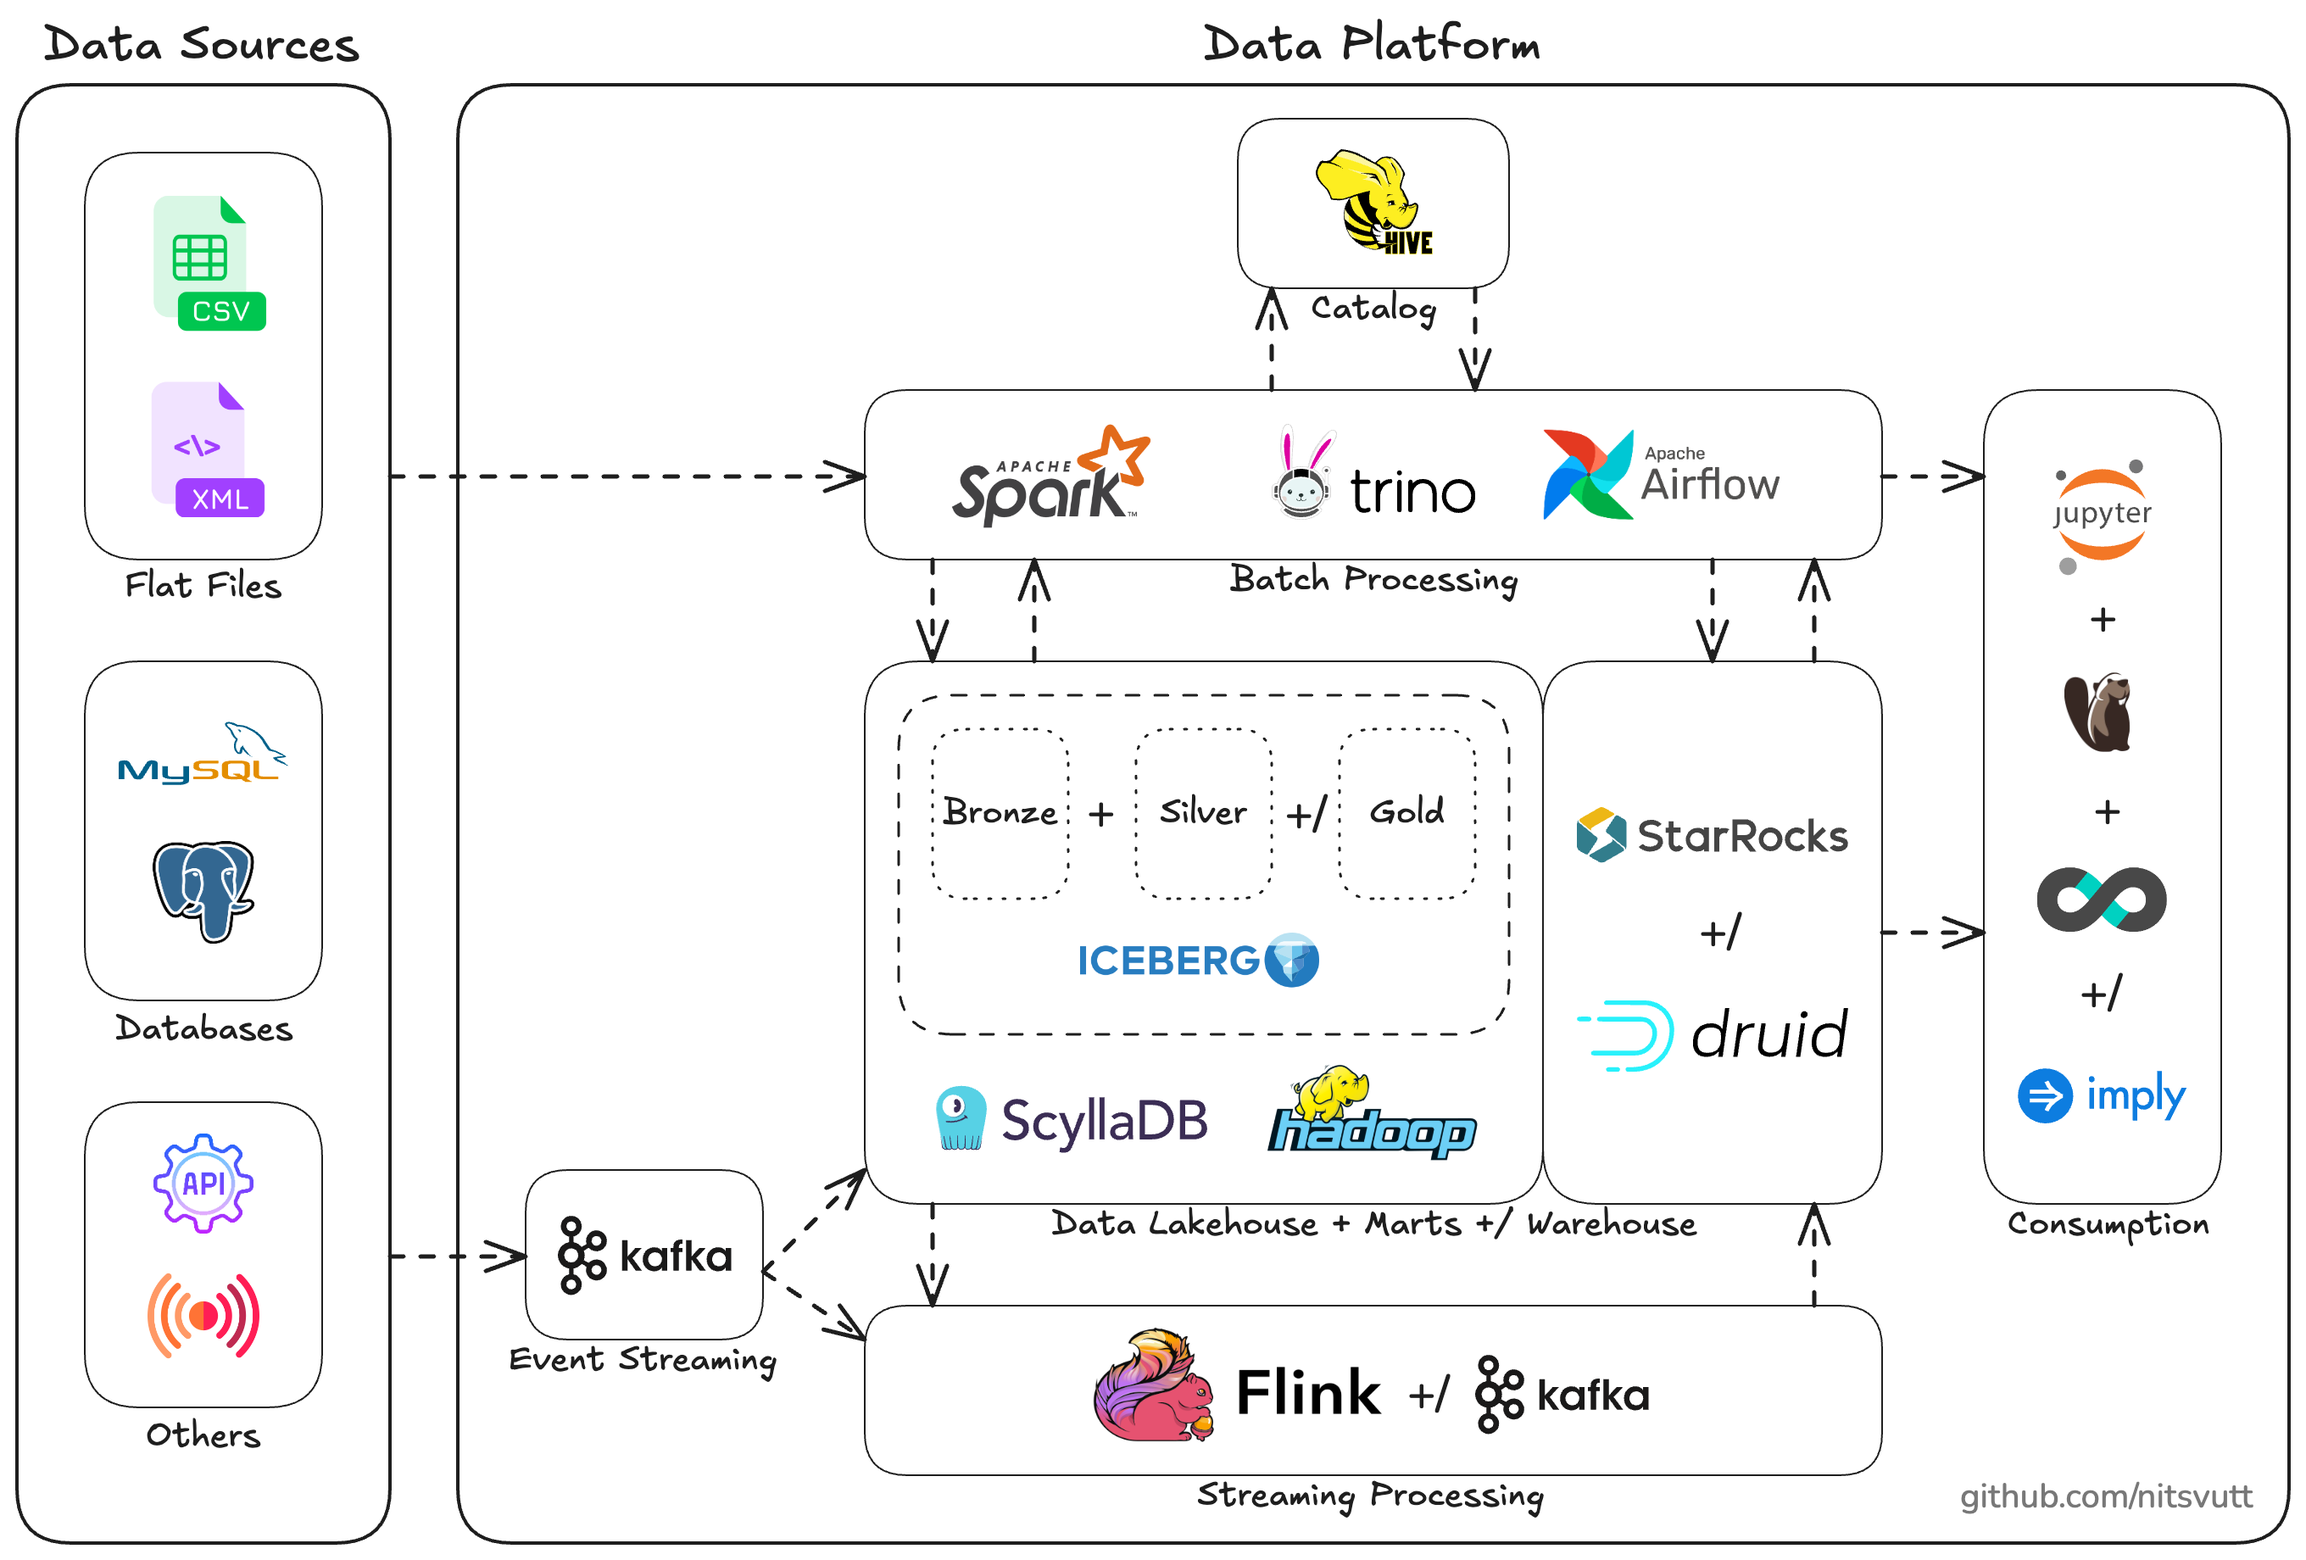
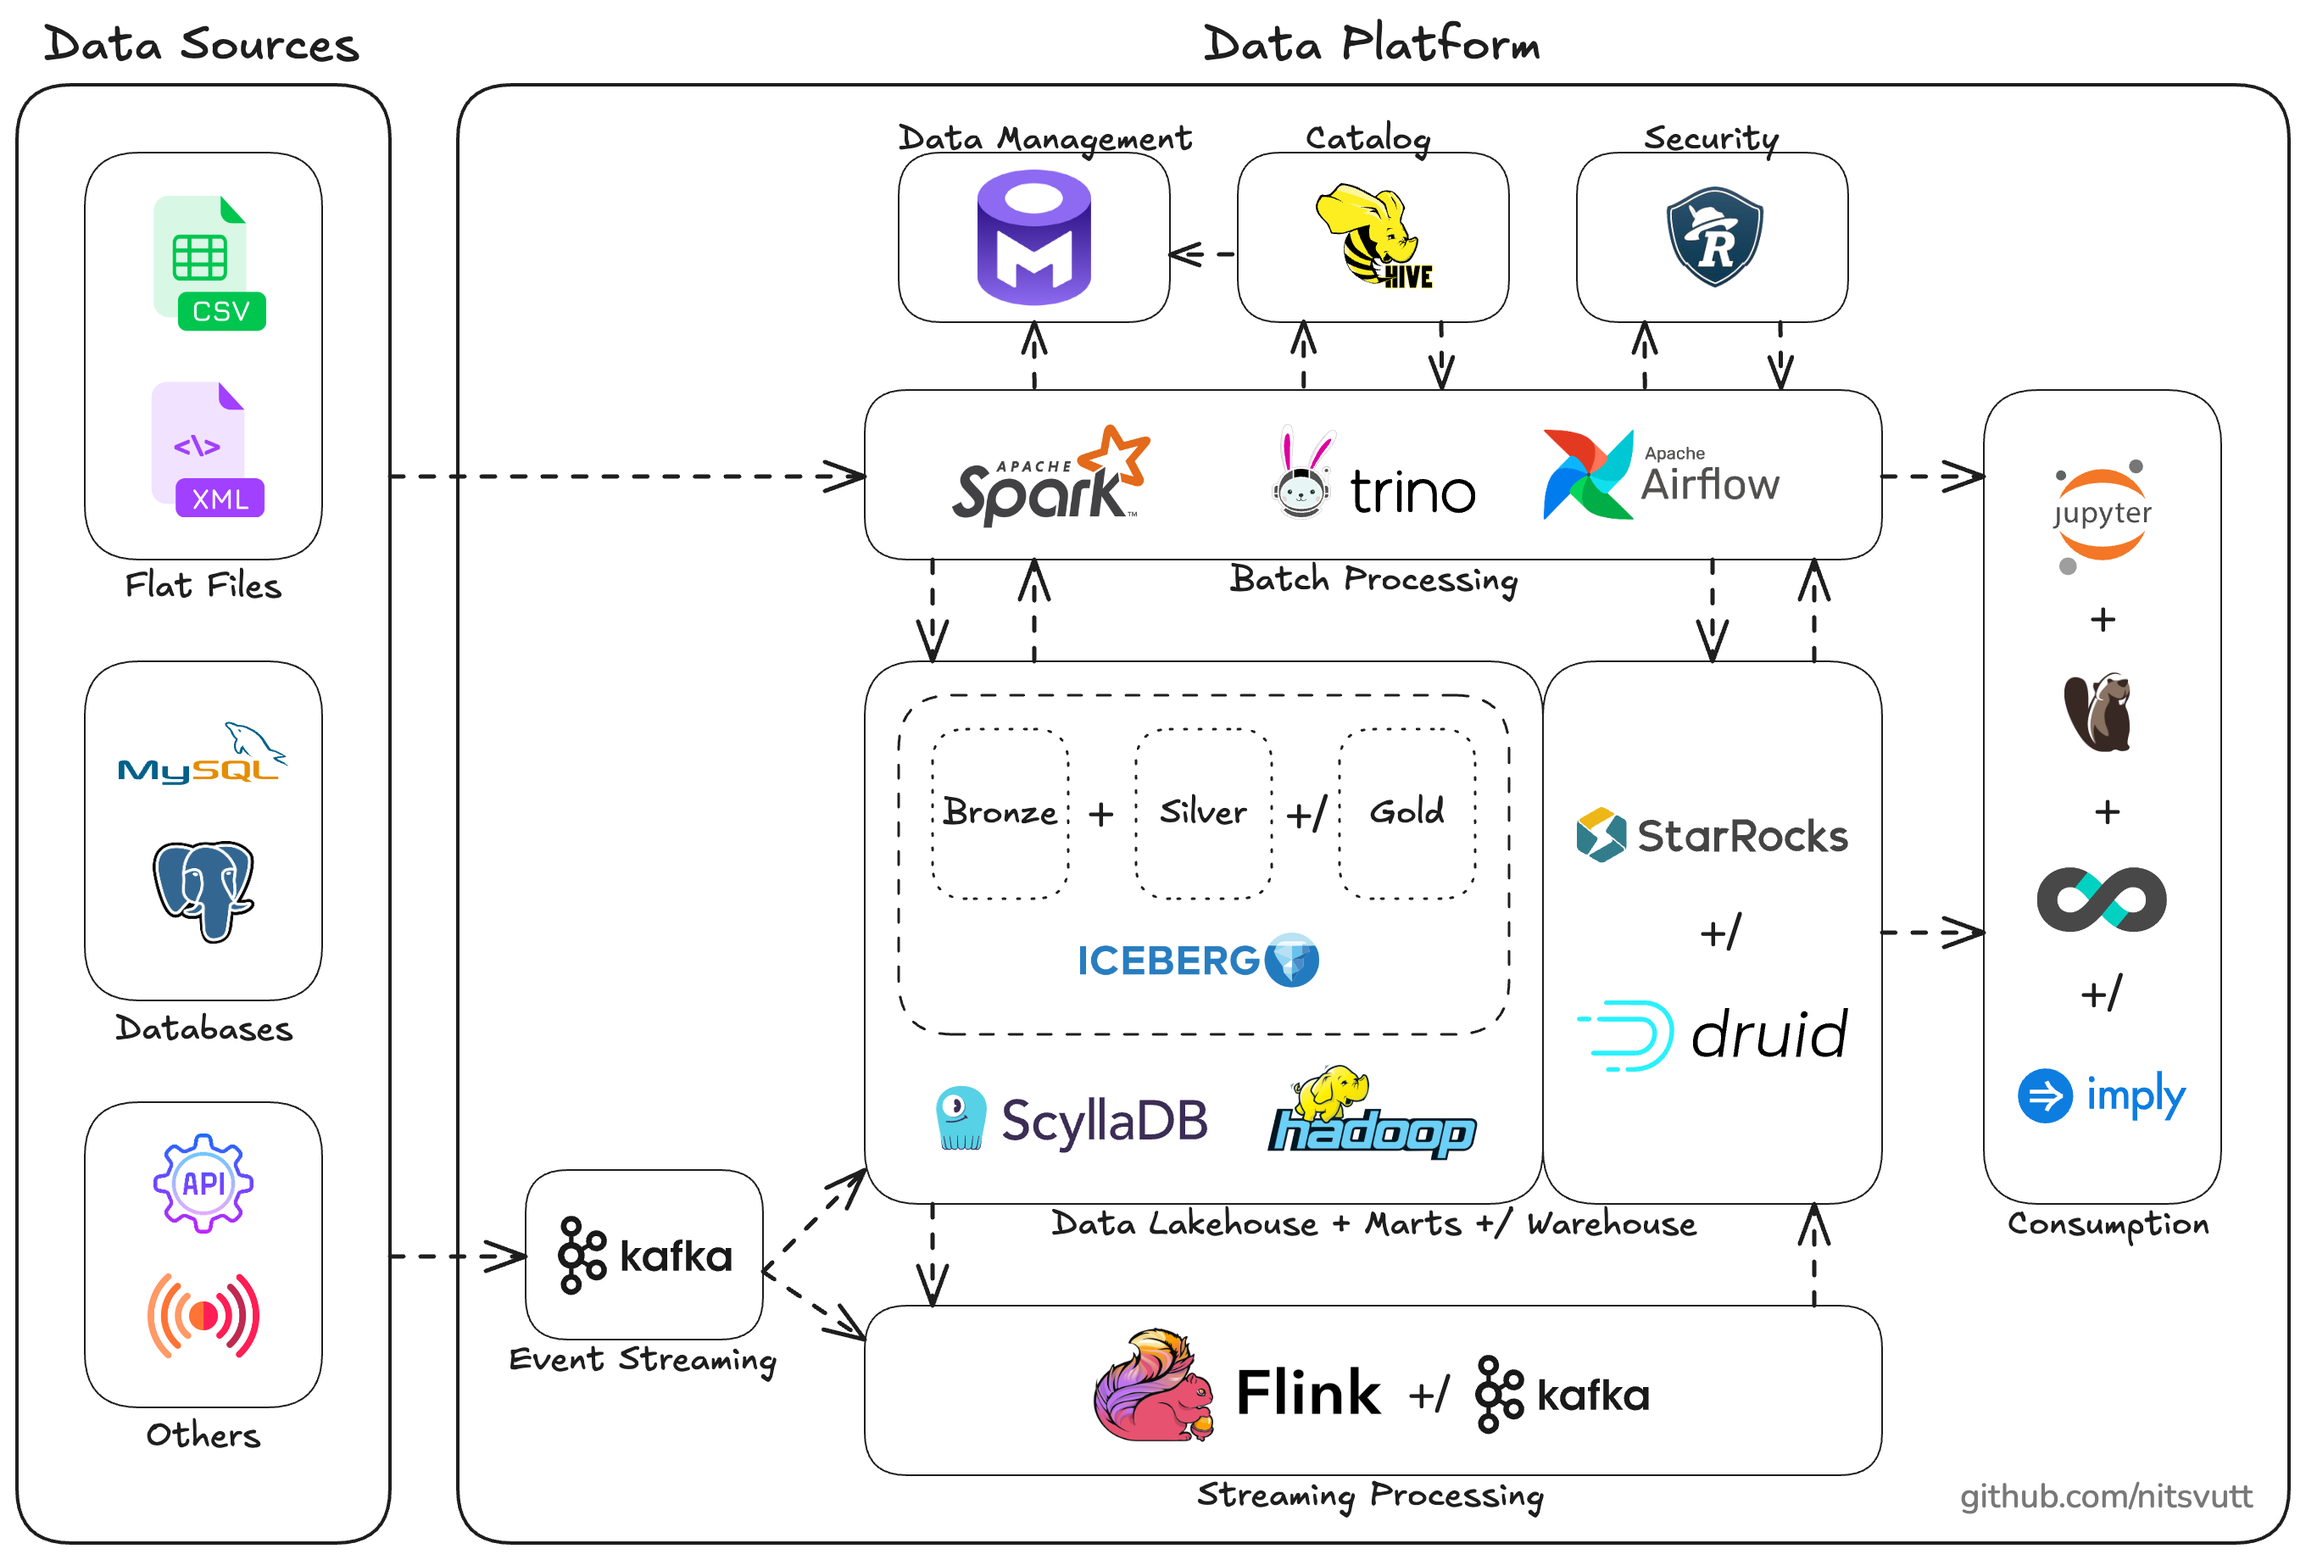
add data management and security

diff --git a/README.md b/README.md
@@ -35,7 +35,10 @@ These days, data becomes the DNA of every organization including both startups a
         - Table format: support ACID for tables (Example: Apache Iceberg).
         - Metastore: store table metadata supporting query engines quickly access this information (Example: Apache Hive).
     - Data Marts +/ Warehouse (Depend on use case): play as an OLAP layer for BI & Reporting (Example: StarRocks, Apache Druid).
-    - User interface: serve users (Example: Jupyter, DBeaver, Apache Superset, Imply).
+    - User Interface: serve users (Example: Jupyter, DBeaver, Apache Superset, Imply).
+    - Data Management: serve data discovery, observability, quality, lineage, and colaboration (Example: OpenMetadata).
+    - Data Security: serve data security (Example: Apache Ranger).
+
 
 <div id="in-progress"/>
 
